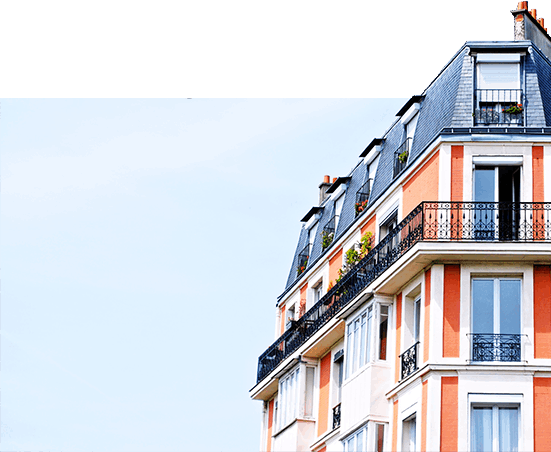
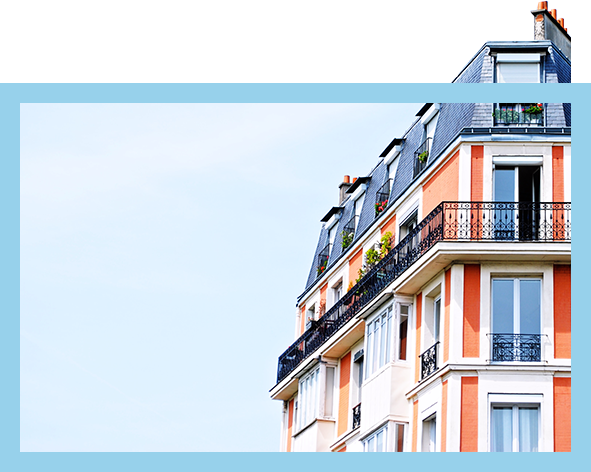
pictures done

diff --git a/src/components/Main.vue b/src/components/Main.vue
@@ -11,16 +11,16 @@
           <div class="col-11 heading">
             <span class="doe">John Doe</span>
             <div class="img-h1">
-              <img class="img-fluid" src="img/01.png" alt="page">
+              <img class="img-fluid blue-rect" src="img/blue-rect.png" alt="page">
               <h1>Architecture<br><span class="lower-letter">aims at eternity</span></h1>
               <img class="img-fluid blue-line" src="img/blue-line.png" alt="line">
             </div>
-            <ul class="hero-pages">
+            <!-- <ul class="hero-pages">
               <li class="grey">01</li>
               <li class="grey">02</li>
               <li class="grey">03</li>
               <li class="grey">04</li>
-            </ul>
+            </ul> -->
           </div>
         </div>
       </div>
@@ -28,12 +28,12 @@
     <section>
       <div class="container-fluid second-section">
         <div class="row no-gutters">
-          <div class="col-4 offset-2">
+          <div class="col-4 offset-1">
             <h3>Curabitur voluptat</h3>
             <p class="second-text">Lorem ipsum dolor sit amet, consectetur adipiscing elit. Sed sed lorem augue. Maecenas vehicula metus eros, et pellentesque justo ornare nec. Curabitur volutpat, quam in mollis luctus, enim risus ullamcorper libero, eu vehicula sapien nunc et tortor. </p>
           </div>
-          <div class="col-6">
-            <h1>We create <span class="lower-letter"><br>cool ideas</span></h1>
+          <div class="col-6 offset-1">
+            <h1 class="we-create">We create <span class="lower-letter"><br>cool ideas</span></h1>
             <img class="img-fluid cool-ideas" src="img/cool-ideas.png" alt="house">
             <!-- <img class="img-fluid house-border" src="img/house.svg" alt="border"> -->
           </div>
@@ -45,15 +45,19 @@
         <div class="row no-gutters">
           <div class="col-3">
             <div class="idea" :style="{'background-image': 'url(img/idea.png)'}"></div>
+            <span class="photo-text">Idea</span>
           </div>
           <div class="col-3">
-            <img class="img-fluid" src="img/concept.png" alt="concept">
+            <img class="img-fluid concept" src="img/concept.png" alt="concept">
+            <span class="photo-text concept-text">Concept</span>
           </div>
           <div class="col-3">
-            <img class="img-fluid" src="img/design.png" alt="design">
+            <img class="img-fluid design" src="img/design.png" alt="design">
+            <span class="photo-text design-text">Design</span>
           </div>
           <div class="col-3">
-            <img class="img-fluid" src="img/develop.png" alt="develop">
+            <img class="img-fluid develop" src="img/develop.png" alt="develop">
+            <span class="photo-text develop-text">Develop</span>
           </div>
         </div>
       </div>
@@ -69,7 +73,7 @@
         </div>
         <div class="row no-gutters">
           <div class="col-12" :style="{'background-image': 'url(img/background.png)'}">
-            <img class="img-fluid" src="img/dexterity-team-partnership.png" alt="line">
+            <img class="img-fluid" src="img/dexterity-team-partnership.png">
           </div>
           <!-- <div class="col-4">
             <span>Dexterity</span>
@@ -101,7 +105,7 @@
             <p class="third-text latest-right">Lorem ipsum dolor sit amet, consectetur adipiscing elit. Sed sed lorem augue.
               Maecenas vehicula metus eros, et pellentesque justo ornare nec. Curabitur volutpat,
               quam in mollis luctus, enim risus ullamcorper libero, eu vehicula sapien nunc et tortor. </p>
-            <button class="latest-right btn-grey-line">Case study</button>
+            <!-- <button class="latest-right btn-grey-line">Case study</button> -->
           </div>
         </div>
       </div>
@@ -128,7 +132,7 @@
     <section>
       <div class="container">
         <div class="row no-gutters">
-          <div class="col d-flex justify-content-around brands">
+          <div class="col d-flex justify-content-around align-items-center brands">
             <img class="img-fluid" src="img/zeus.png" alt="zeus">
             <img class="img-fluid" src="img/p.png" alt="p">
             <img class="img-fluid" src="img/cratia.png" alt="cratia">
@@ -145,9 +149,9 @@
           <div class="col-7 leftside-form">
             <form>
               <ul>
-                <li class="add-menu">Contact us</li>
-                <li class="add-menu">Phone</li>
-                <li class="add-menu">E-mail</li><br>
+                <li class="add-menu">Contact us</li><br>
+                <!-- <li class="add-menu">Phone</li>
+                <li class="add-menu">E-mail</li><br> -->
                 <label for="name" class="add-input">Name</label>
                 <input type="text" id="name"><br>
                 <label for="phone" class="add-input">Phone</label>
@@ -193,14 +197,22 @@ export default {
       margin-right: 40px;
     }
   }
+  .background {
+    padding-left: 15px;
+  }
   h1 {
-    font-size: 5.7em;
+    font-size: 5.6em;
     color: rgba(0, 0, 0, 255);
     font-weight: bold;
     margin-left: 38px;
     position: relative;
     z-index: 1;
     letter-spacing: 0.05em;
+    padding-top: 40px;
+  }
+  .we-create {
+    margin-left: -60px;
+    padding-top: 5px;
   }
   .container-fluid {
     padding-right: 0;
@@ -213,7 +225,7 @@ export default {
   }
   .heading {
     position: absolute;
-    top: 71%;
+    top: 50%;
     left: 7%;
     // width: 100%;
   }
@@ -228,16 +240,19 @@ export default {
   }
   .doe {
     position: absolute;
-    left: 21%;
+    left: 20.5%;
     color: $greyColor;
     font-size: 1.125em;
     font-weight: bold;
   }
   .blue-line {
     position: absolute;
-    left: 20%;
-    top: 85%;
-    width: 45%;
+    left: 19%;
+    top: 100%;
+    width: 50%;
+  }
+  .blue-rect {
+    padding-top: 40px;
   }
   .grey {
     color: $greyColor;
@@ -253,7 +268,7 @@ export default {
     color: $greyColor;
     font-size: 3.2em;
     font-weight: bold;
-    padding-left: -2%;
+    margin-left: -10px;
   }
   .second-text {
     color: $greyColor;
@@ -343,6 +358,26 @@ export default {
     background-size: cover;
     height: 100%;
     background-position: center;
+    position: relative;
+  }
+  .photo-text {
+    position: absolute;
+    top: 45%;
+    left: 30%;
+    font-size: 3.750em;
+    color: white;
+    background: gray;
+    padding: 0 10px;
+
+  }
+  .concept-text {
+    left: 14%;
+  }
+  .design-text {
+    left: 20%;
+  }
+  .develop-text {
+    left: 15%;
   }
   .third-text {
     color: $greyColor;

diff --git a/src/components/Header.vue b/src/components/Header.vue
@@ -9,17 +9,16 @@
               <p>Selene.</p>
             </div>
           </div>
-          <div class="col-xl-8 offset-xl-1 col-lg-8 offset-lg-1 col-md-8 offset-md-1 col-sm">
+          <div class="col-xl-7 offset-xl-2 col-lg-7 offset-lg-2 col-md-7 offset-md-2 col-sm">
             <ul class="nav">
               <li class="nav-item"><a class="nav-link" href="#">home</a></li>
               <li class="nav-item"><a class="nav-link" href="#">about us</a></li>
               <li class="nav-item"><a class="nav-link" href="#">projects</a></li>
               <li class="nav-item"><a class="nav-link" href="#">clients</a></li>
               <li class="nav-item"><a class="nav-link" href="#">contact</a></li>
-              <li class="nav-item"><a class="nav-link" href="#">blog</a></li>
             </ul>
           </div>
-          <div class="col-xl-1 col-lg-1 col-md-1 col-sm">
+          <div class="col-xl-1 col-lg-1 col-md-1 col-sm col-find">
             <img src="img/Search.png" class="search" alt="search">
           </div>
         </div>
@@ -73,5 +72,8 @@ export default {
     top: 63px;
     left: 90px;
     font-weight: bold;
+  }
+  .col-find {
+    display: flex;
   }
 </style>
